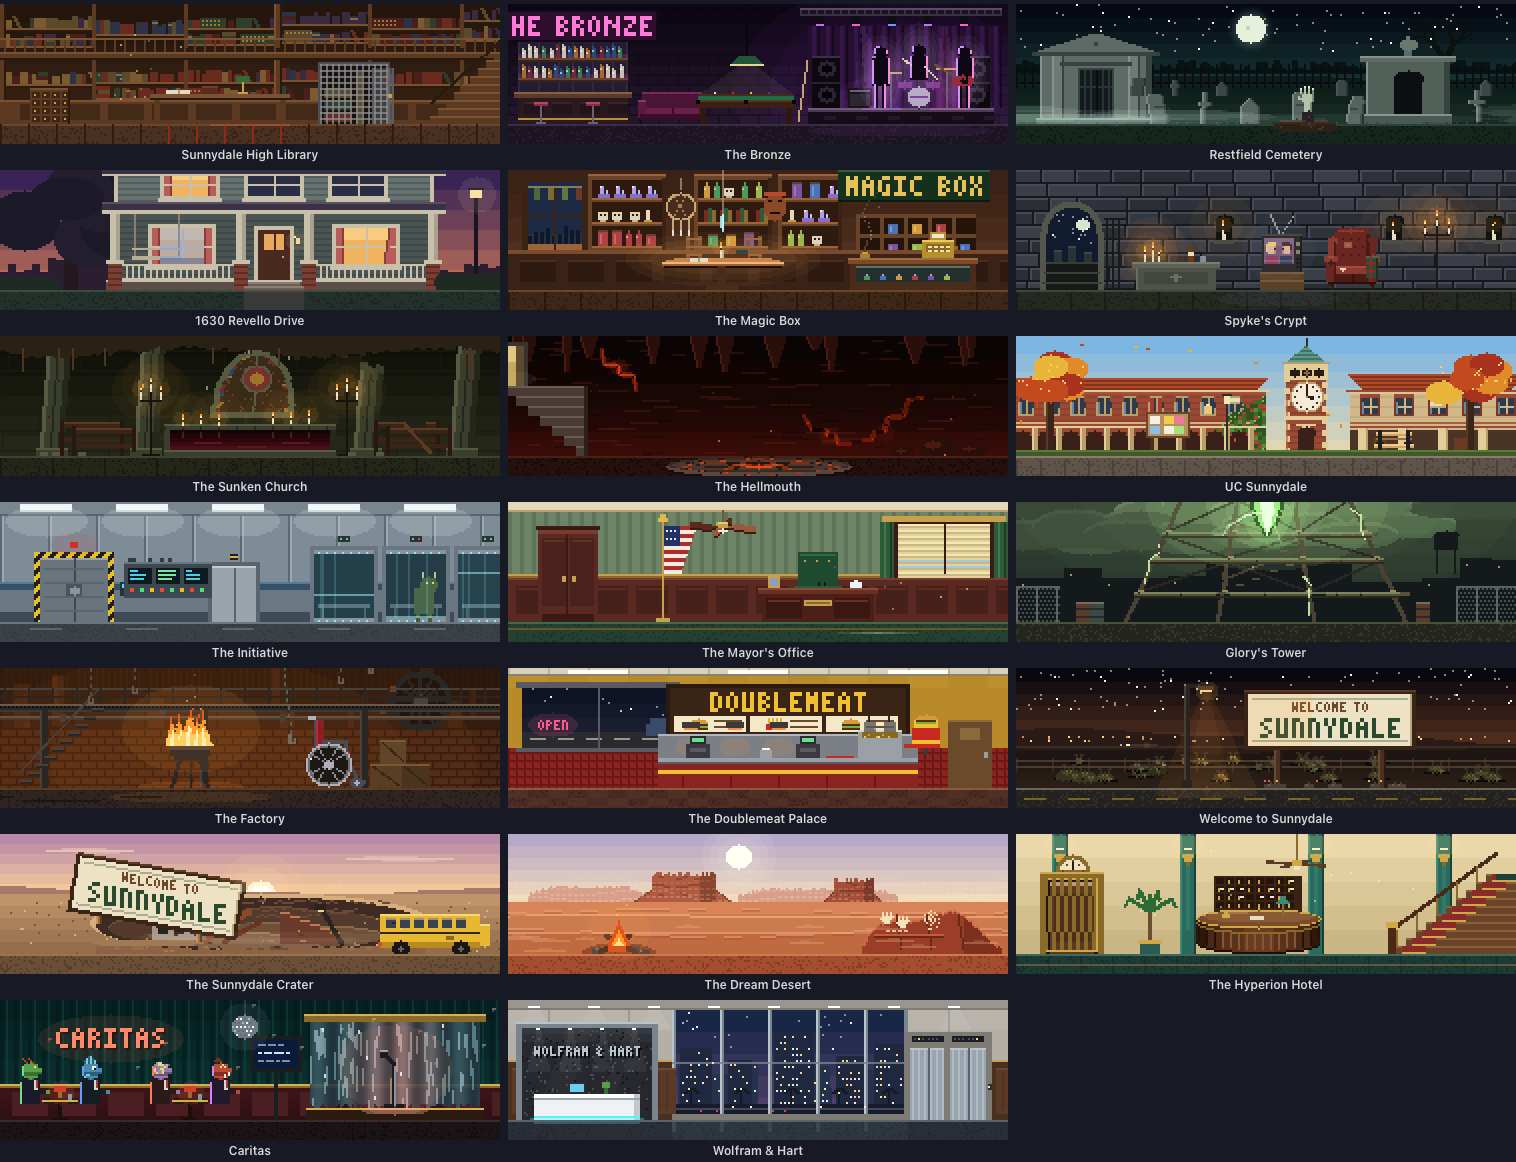
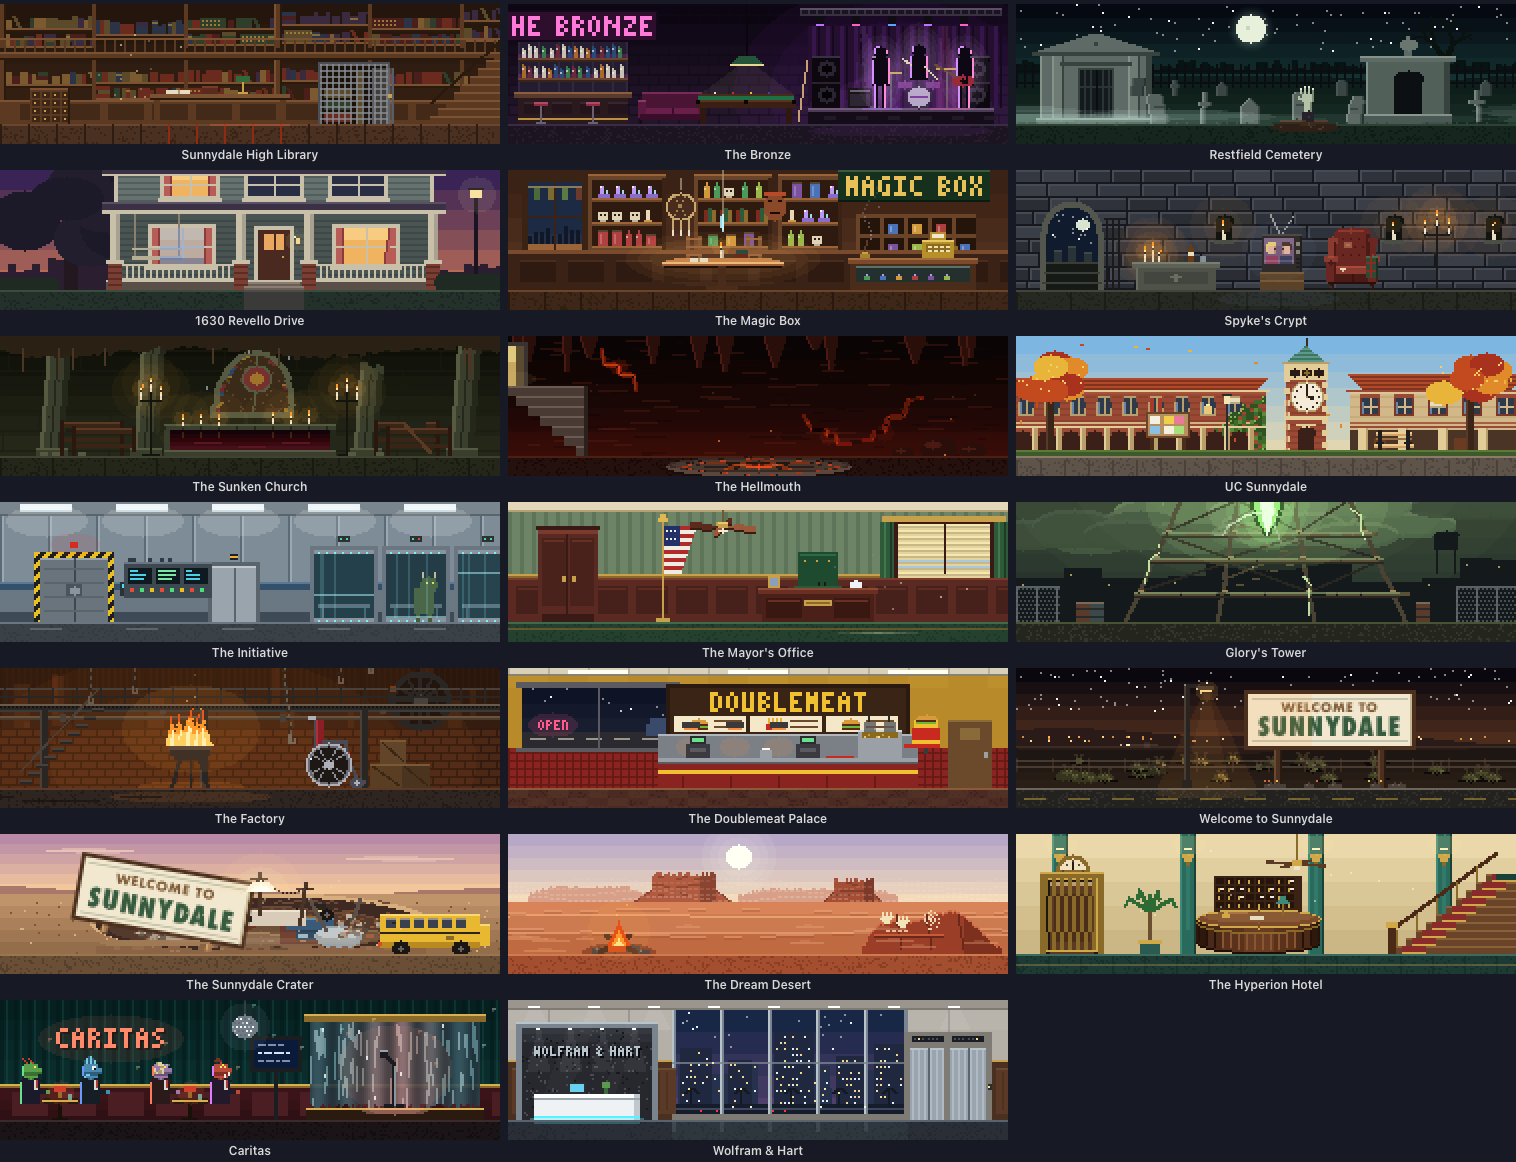
fix(slayer): draw the town sign the same way as the crater's
The Welcome to Sunnydale place still drew its board with pixel lettering. Both now use slayerSign4 (antialiased board, Futura lettering scaled to the board's height), the town's level with no posts of its own, so the sign looks the same in both places. The pixel board and the tilted-lettering helpers are gone; docs/locations-clawd-slayer.png is re-rendered.

Changed region(s): [[0.031, 0.7435, 0.248, 0.8365], [0.8371, 0.5886, 0.9301, 0.6506]]

diff --git a/Sources/App/Universes/Slayer/Places/SlayerScenes4.swift b/Sources/App/Universes/Slayer/Places/SlayerScenes4.swift
@@ -92,31 +92,14 @@ private func slayerButte4(_ c: PixelCanvas, x: Int, w: Int, h: Int, base: Int, _
     }
 }
 
-/// The "Welcome to Sunnydale" sign's board, `p` pixels a dot for the town's name, its top-left at (x, y). Returns its
-/// size.
-@discardableResult
-private func slayerWelcomeBoard4(_ c: PixelCanvas, _ x: Int, _ y: Int, _ p: Int, small: Int, _ s: Int,
-                                 lit: Bool = true, lettered: Bool = true) -> (w: Int, h: Int) {
-    let big = "SUNNYDALE", top = "WELCOME TO"
-    let w = slayerTextWidth4(big, p) + 12 * s, h = 4 * s + 5 * small + 3 * s + 5 * p + 4 * s
-    let frame = C(0x3A2416), face = lit ? C(0xEEE2C4) : C(0xC8B898), ink = C(0x2A4A30), fine = C(0x6A4A2A)
-    c.rect(x - 2 * s, y - 2 * s, w + 4 * s, h + 4 * s, frame)
-    c.rect(x - 2 * s, y - 2 * s, w + 4 * s, s, C(0x5A3A22))
-    c.rect(x, y, w, h, face)
-    c.rect(x, y + h - s, w, s, face.alpha(0.8)); c.rect(x + w - s, y, s, h, C(0xB8A880))
-    c.rect(x + 2 * s, y + 2 * s, w - 4 * s, s, ink.alpha(0.35)); c.rect(x + 2 * s, y + h - 3 * s, w - 4 * s, s, ink.alpha(0.35))
-    if lettered {
-        slayerText4(c, x + (w - slayerTextWidth4(top, small)) / 2, y + 4 * s, top, fine, small)
-        slayerText4(c, x + (w - slayerTextWidth4(big, p)) / 2, y + 4 * s + 5 * small + 3 * s, big, ink, p)
-    }
-    return (w, h)
-}
 
-/// The "WELCOME TO SUNNYDALE" sign on its two posts, turned `degrees` clockwise about its feet and set down with
-/// them at `feet`. It's drawn with Core Graphics, antialiased, in a real typeface: pixel lettering turned by a
-/// few degrees either breaks up or steps along the slope, and at window size it couldn't be read.
-private func slayerTiltedSign4(_ c: PixelCanvas, feet: (x: Int, y: Int), degrees: Double, post: Int, _ s: Int) {
-    let bw = Double(84 * s), bh = Double(30 * s), border = Double(2 * s), postH = Double(post)
+/// The "WELCOME TO SUNNYDALE" board, `board` pixels across and high, on two posts `post` high (none at 0), turned
+/// `degrees` clockwise about the posts' feet and set down with them at `feet`. It's drawn with Core Graphics,
+/// antialiased, in a real typeface: pixel lettering couldn't be read at window size, and turned by a few degrees
+/// it broke up or stepped along the slope. The town sign and the crater share it, so the sign looks the same.
+private func slayerSign4(_ c: PixelCanvas, feet: (x: Int, y: Int), degrees: Double = 0, board: (w: Int, h: Int), post: Int,
+                         _ s: Int) {
+    let bw = Double(board.w), bh = Double(board.h), border = Double(2 * s), postH = Double(post), k = bh / Double(30 * s)
     let span = Int(bw + bh + postH) + 8 * s, side = span * 2
     guard let g = CGContext(data: nil, width: side, height: side, bitsPerComponent: 8, bytesPerRow: side * 4,
                             space: CGColorSpaceCreateDeviceRGB(), bitmapInfo: CGImageAlphaInfo.premultipliedLast.rawValue) else { return }
@@ -126,7 +109,7 @@ private func slayerTiltedSign4(_ c: PixelCanvas, feet: (x: Int, y: Int), degrees
     g.rotate(by: -degrees * .pi / 180)
     func fill(_ r: CGRect, _ hex: UInt32) { g.setFillColor(rgb(hex)); g.fill(r) }
     let left = -bw / 2, bottom = postH
-    for px in [left + bw / 6, left + bw * 5 / 6 - Double(3 * s)] {                  // the posts
+    for px in [left + bw / 6, left + bw * 5 / 6 - Double(3 * s)] where post > 0 {   // the posts
         fill(CGRect(x: px, y: 0, width: Double(3 * s), height: postH + border), 0x9A6A40)
         fill(CGRect(x: px, y: 0, width: Double(s), height: postH + border), 0xC8945A)
     }
@@ -152,8 +135,8 @@ private func slayerTiltedSign4(_ c: PixelCanvas, feet: (x: Int, y: Int), degrees
         g.textPosition = CGPoint(x: -w / 2, y: baseline)
         CTLineDraw(l, g)
     }
-    word("WELCOME TO", cap: Double(5 * s), maxW: bw * 0.6, baseline: bottom + bh - border - Double(8 * s), 0x6A4A2A, bold: false)
-    word("SUNNYDALE", cap: Double(12 * s), maxW: bw - Double(10 * s), baseline: bottom + border + Double(4 * s), 0x2A4A30, bold: true)
+    word("WELCOME TO", cap: Double(5 * s) * k, maxW: bw * 0.6, baseline: bottom + bh - border - Double(8 * s) * k, 0x6A4A2A, bold: false)
+    word("SUNNYDALE", cap: Double(12 * s) * k, maxW: bw - Double(10 * s), baseline: bottom + border + Double(4 * s) * k, 0x2A4A30, bold: true)
     guard let data = g.data else { return }
     let px = data.bindMemory(to: UInt8.self, capacity: side * side * 4)
     // Row 0 of the bitmap is the top of the square; its middle lands on the feet.
@@ -297,7 +280,7 @@ extension Scenes {
             c.rect(px, b.y + b.h, 4 * s, g - b.y - b.h, C(0x4A3020)); c.rect(px, b.y + b.h, s, g - b.y - b.h, C(0x6A4A30))
             c.rect(px + 3 * s, b.y + b.h, s, g - b.y - b.h, C(0x2A1A10))
         }
-        slayerWelcomeBoard4(c, b.x, b.y, b.p, small: b.small, s)
+        slayerSign4(c, feet: (b.x + b.w / 2, b.y + b.h), board: (b.w, b.h), post: 0, s)
         c.rect(b.x, b.y, b.w * 2 / 5, b.h, C(0xFFA040, 0.12))   // lamplight falls on its left side
         for k in 0..<9 {
             let x = b.x + Int(noise(k + 160) * Double(b.w)), r = (2 + Int(noise(k + 161) * 2)) * s
@@ -502,7 +485,7 @@ extension Scenes {
         // The sign, tipping over the lip on the left, its feet on the crater's edge.
         let sx = cx - rx + 30 * s
         let du = Double(sx - cx) / Double(rx), sy = cy + Int(Double(ry) * (1 - du * du).squareRoot())
-        slayerTiltedSign4(c, feet: (sx, sy), degrees: 10, post: tall ? 14 * s : 6 * s, s)
+        slayerSign4(c, feet: (sx, sy), degrees: 10, board: (84 * s, 30 * s), post: tall ? 14 * s : 6 * s, s)
         c.ellipse(sx - 2 * s, sy, 26 * s, 2 * s, C(0xA07A54))   // the ground giving way under it
         for k in 0..<6 { c.rect(sx + Int(noise(k + 330) * Double(40 * s)), sy + Int(noise(k + 331) * 6) * s, 2 * s, s, C(0xA07A54)) }
         // The school bus at the edge, on the right.

diff --git a/CHANGELOG.md b/CHANGELOG.md
@@ -18,7 +18,7 @@ Doctor Clawd, the fourth, was made for Clawd Clash ([doctor-clawd](https://githu
 - **The README's disclaimer covers every universe, now and later.** It named only Lucasfilm, Disney, Marvel, DC Comics and Warner Bros., from when there were three universes, and missed the BBC, the Tolkien Estate and everyone since. It now says the app isn't affiliated with or endorsed by any of the studios, networks, publishers, estates or creators whose universes it parodies, that the characters and places belong to them and the puns to us, so it stays true with each new universe. The showcase pages keep their own lists, each naming its one universe's owners.
 
 ### Fixed
-- **The Sunnydale Crater's sign can be read, and the crater has a town in it.** The sign tipped over the crater's near lip in pixel letters set upright one by one, so they stepped up the slope and, at window size, couldn't be read. It still tips in at 10°, but it's now drawn with Core Graphics in a real typeface (Futura), antialiased, so WELCOME TO SUNNYDALE reads in the window and in the screen saver. The crater held a few girders, a roof and a building; now there's also a car on its roof, the church steeple on its side, the water tower on its back, a row of leaning telephone poles with a sagging wire, and heaps of broken concrete and brick.
+- **The Sunnydale Crater's sign can be read, and the crater has a town in it.** The sign tipped over the crater's near lip in pixel letters set upright one by one, so they stepped up the slope and, at window size, couldn't be read. It still tips in at 10°, but it's now drawn with Core Graphics in a real typeface (Futura), antialiased, so WELCOME TO SUNNYDALE reads in the window and in the screen saver. The crater held a few girders, a roof and a building; now there's also a car on its roof, the church steeple on its side, the water tower on its back, a row of leaning telephone poles with a sagging wire, and heaps of broken concrete and brick. The Welcome to Sunnydale place's own sign uses the same drawing, level, so the two signs match (and the trailer's DeSoto smashes the new one); the Clawd Slayer locations sheet is rendered again with both.
 - **A character's now-and-then line no longer sits on a neighbour.** The line (Harmony's "Blondie Bear!", Cordelia's "Hel-lo?") went beside the head on the side away from the speech bubble, or behind the character, whoever stood there. In a fight the two stand close, so in the window Harmony's line landed over Faith and read as hers. Now it takes the other side if that one is clear of every character, and goes over the head (stacked above the name tag, like Han's and Greedo's lines) when neither is.
 
 ## 3.7.0 (2026-10-18)
